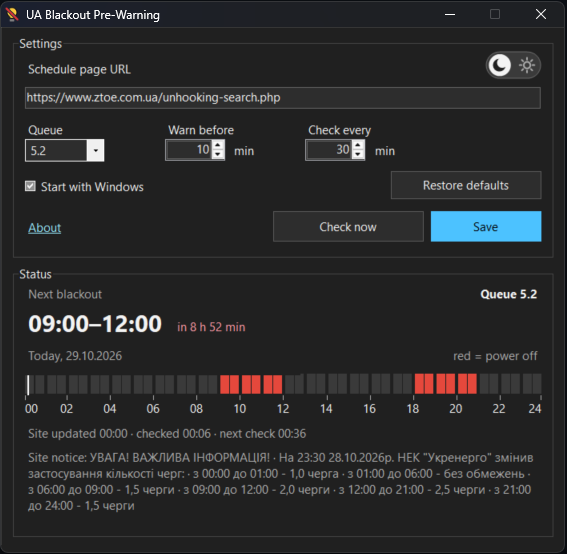
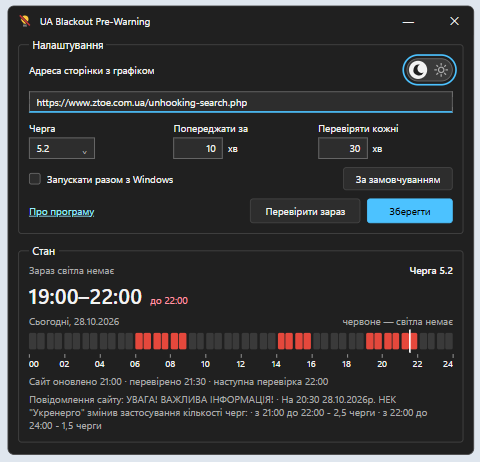
README: new main window screenshot (Ukrainian UI, dark theme)
Claude-Session: https://claude.ai/code/session_01Jz2EgkL9UyKueeriL1A3ZL

diff --git a/README.md b/README.md
@@ -57,7 +57,7 @@
 
 Вікно відкривається подвійним клацанням по значку в треї або через пункт меню **«Відкрити»**.
 
-![Вікно програми (темна тема, англійська мова Windows)](docs/images/main-window-dark.png)
+![Вікно програми (темна тема, українська мова Windows)](docs/images/main-window-dark.png)
 
 ### Налаштування
 
